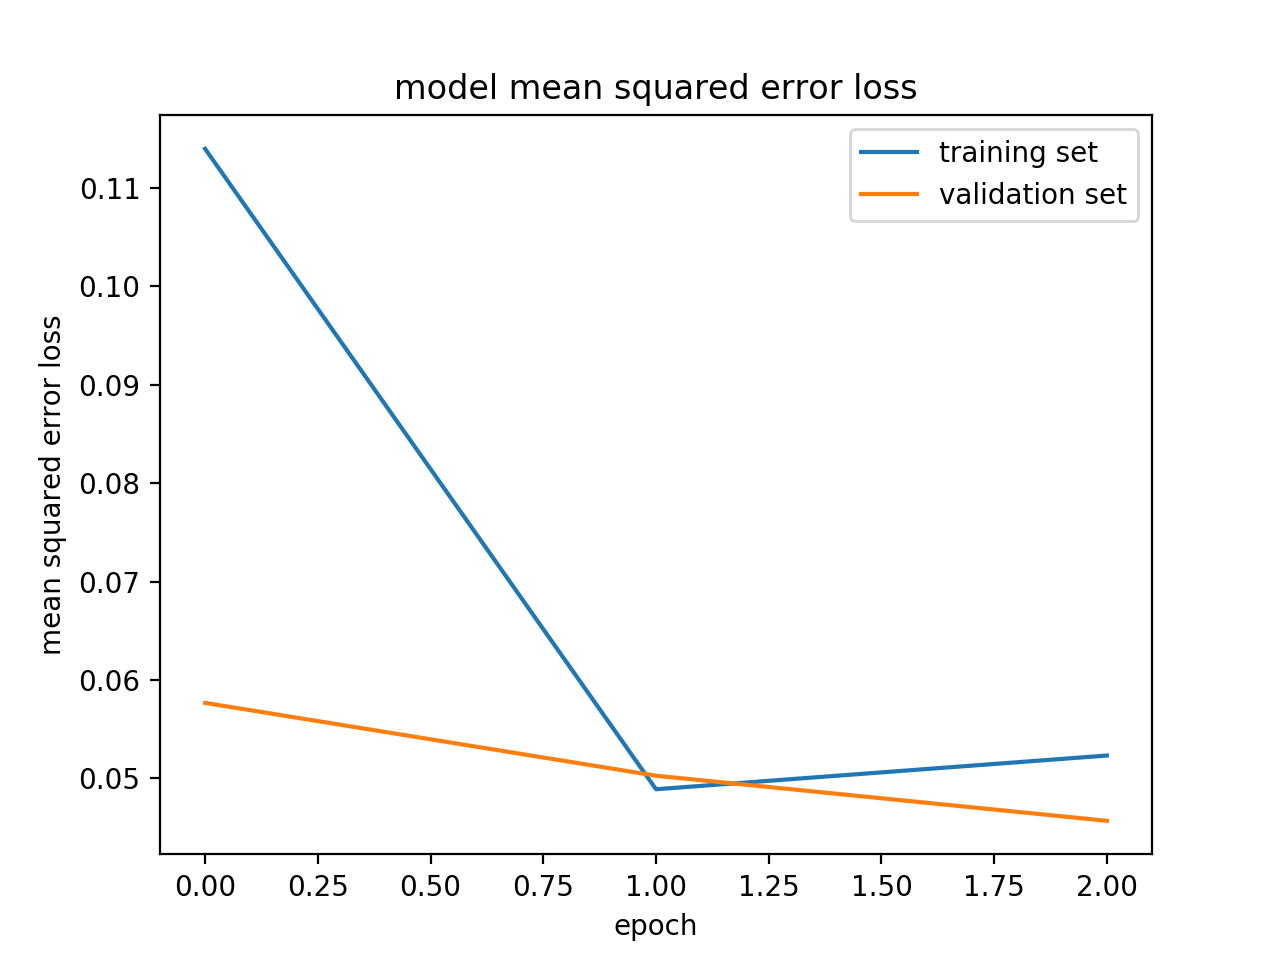
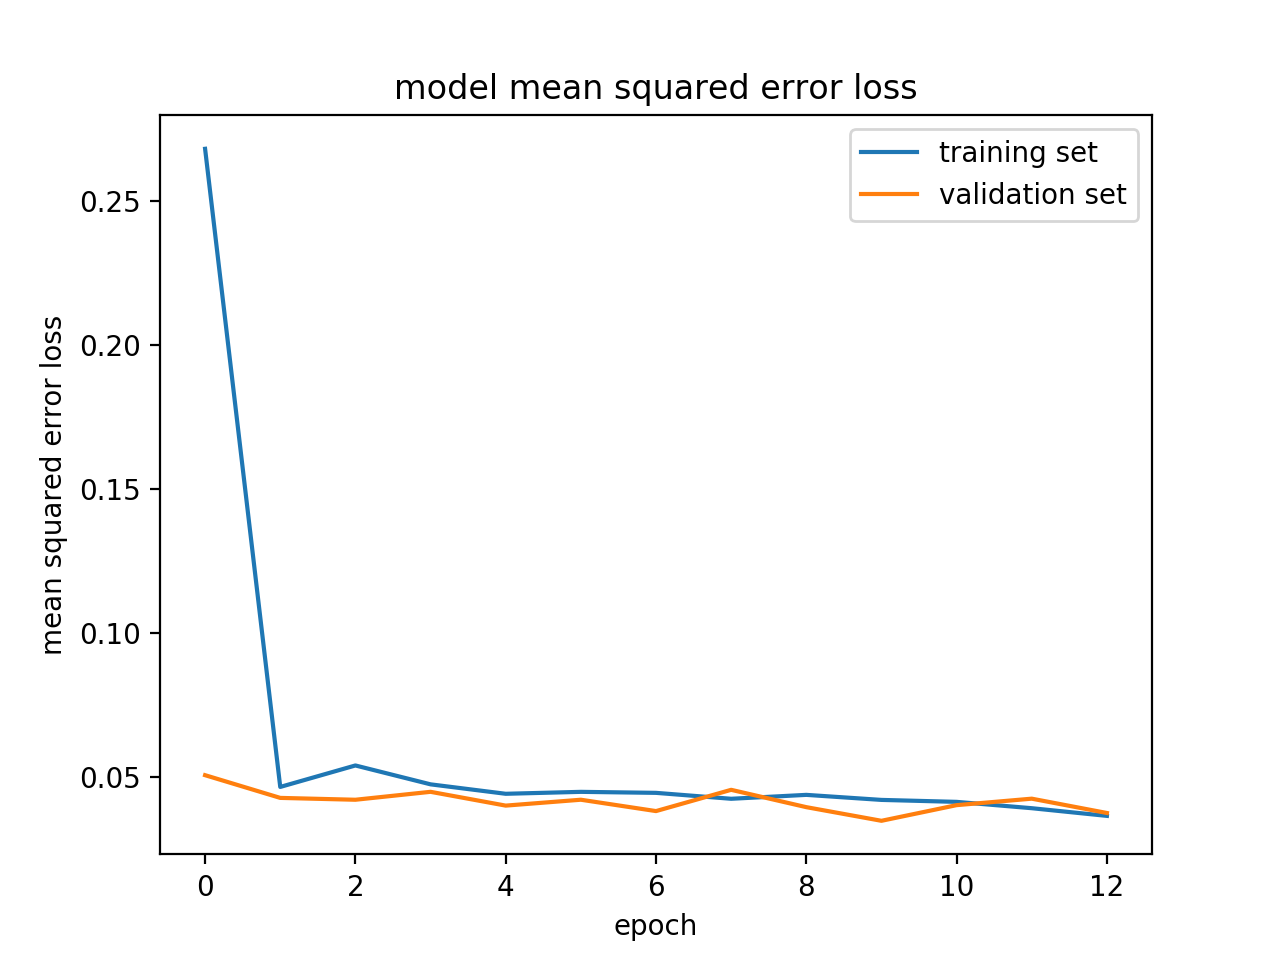
history

diff --git a/history.py b/history.py
@@ -1,7 +1,7 @@
 from keras.models import Model
 import matplotlib.pyplot as plt
 
-history = {'val_loss': [0.057678838493302464, 0.050279253240053855, 0.045697620914628111], 'loss': [0.11398382629565101, 0.04890348554212362, 0.052330473279382318]}
+history = {'loss': [0.26818785770855685, 0.046520600313360388, 0.053977669949861286, 0.047421908144779659, 0.044138645555110691, 0.044812421108285587, 0.044463311559817892, 0.042405824890320604, 0.04376482333433121, 0.042012493542217193, 0.041334924803293767, 0.039131390700737637, 0.036462500572521636], 'val_loss': [0.050602055387571454, 0.042712398571893573, 0.042067749115327992, 0.044823499862104654, 0.040033325951906944, 0.042075497641538583, 0.038130359413723149, 0.045516610766450562, 0.039496007845286403, 0.034756312379613519, 0.040192798711359501, 0.042443694857259594, 0.037468881885851582]}
 
 ### print the keys contained in the history object
 print(history.keys())

diff --git a/README.md b/README.md
@@ -11,7 +11,7 @@
 I did the following steps:
 
 * Used the simulator to collect the following data points: Driving in the center, driving in the opposite direction, recovering from driving over the lane lines, driving on the track two.
-* Built two convolution neural networks in Keras that predicts steering angles from images
+* Built a convolution neural network in Keras that predicts steering angles from images
 * Trained and validated the model with a training and validation set
 * Tested that the model can successfully drive around track one without leaving the road
 
